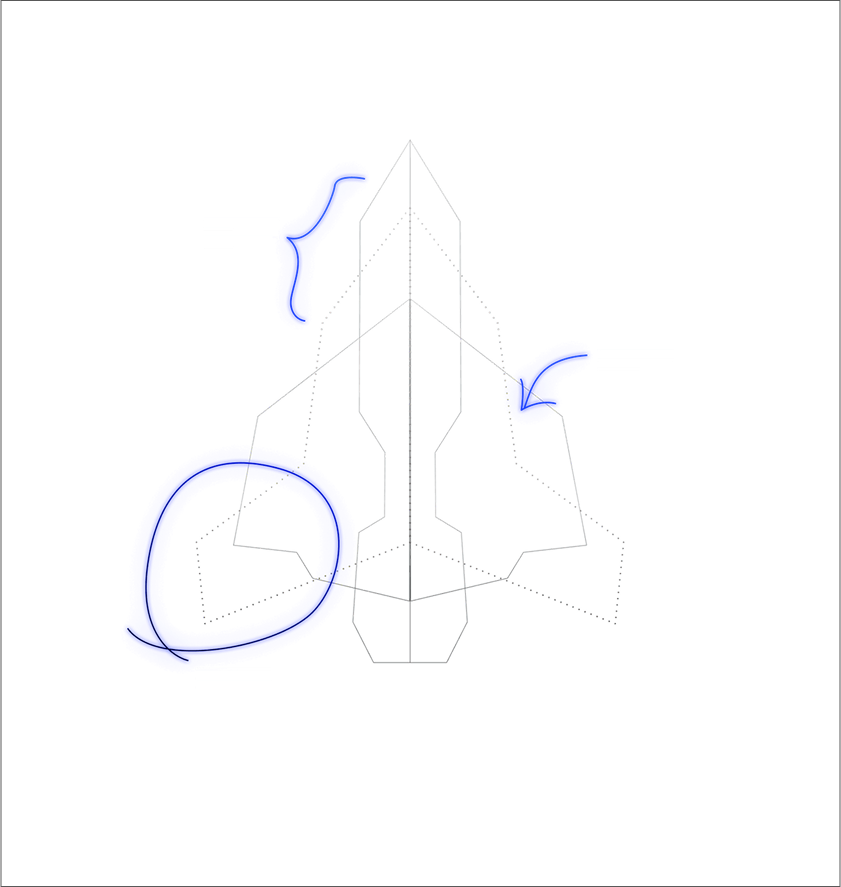
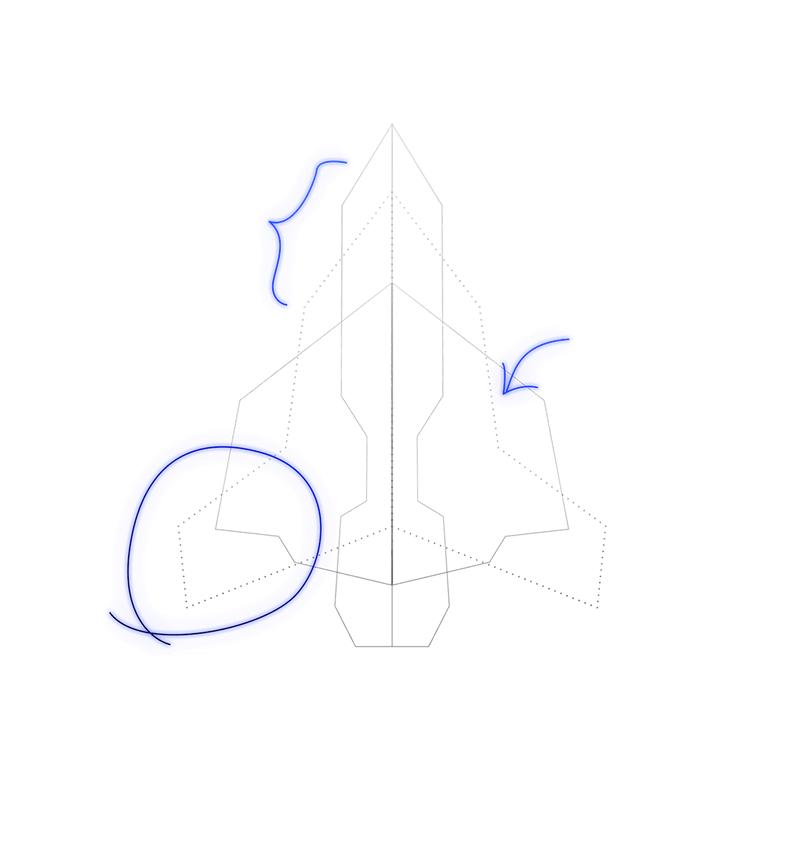
commit files

diff --git a/src/pages/UIUXDesigning.jsx b/src/pages/UIUXDesigning.jsx
@@ -1,0 +1,166 @@
+import React from "react";
+import { Helmet } from "react-helmet";
+import SectionTitle from "../components/SectionTitle";
+import ListItems from "../components/ListItems";
+import uiuximg01 from "../assets/images/subpages/uiux01.jpg";
+import uiuximg02 from "../assets/images/subpages/uiux02.png";
+import uiuximg03 from "../assets/images/subpages/uiux03.png";
+import uiuximg04 from "../assets/images/subpages/uiux04.png";
+
+const pagesubtitle = "UX/UI Designing";
+const pagetitle = "Design That Converts Visitors";
+const pagedescription =
+  "We craft intuitive interfaces that delight users and drive business results through strategic design thinking";
+
+const designprocess = [
+  "User Research & Persona Development:  We analyze real user behavior to create targeted audience profiles for precise design decisions.",
+  "Information Architecture & Wireframing: Structuring content logically and sketching blueprints for intuitive user flows and navigation.",
+  "Interactive Prototyping:  Transforming static designs into clickable prototypes to validate functionality early.",
+  "Usability Testing & Iteration:  Observing real users interact with designs to refine and eliminate friction points.",
+];
+
+const designspecialities = [
+  "Web & Mobile App UI/UX:  We craft intuitive, visually stunning interfaces for seamless user journeys across all devices—from responsive websites to native iOS/Android apps.",
+  "Design Systems & Style Guides:  Build brand consistency at scale with reusable component libraries, documented patterns, and future-proof design governance.",
+  "SaaS Product Interfaces:  Complex workflows made simple. We specialize in dashboards, admin panels, and B2B tools that users actually enjoy.",
+  "E-commerce Optimization:  Turn browsers into buyers with conversion-focused product pages, frictionless checkout flows, and mobile-first shopping experiences",
+];
+
+const whychoose = [
+  "300+ Successful Design Projects: roven track record across 12 industries—from fintech to healthcare—delivering measurable improvements in engagement and conversions.",
+  "Data-Driven Design Decisions:We blend qualitative insights (user testing) with quantitative metrics (heatmaps, analytics) to remove guesswork.",
+  "Collaborative Design Sprints: Fast, transparent iterations with Figma prototypes and weekly stakeholder reviews—no endless feedback loops..",
+  "Developer-Friendly Handoffs: Pixel-perfect specs, organized design tokens, and Slack-ready dev teams for smoother implementation.",
+];
+
+const UIUXDesigning = () => {
+  return (
+    <>
+      <main className="Subpage">
+        <Helmet>
+          <title>{pagesubtitle}</title>
+          <meta
+            name="description"
+            content="Learn more about Core Web Pro Studio, Hyderabad's leading web design and development agency. Discover our expertise in UI/UX, web development, SEO, digital marketing, and mobile apps."
+          />
+          <meta
+            name="keywords"
+            content="About Core Web Pro Studio, Web Design, Web Development, UI/UX, SEO, Digital Marketing, Mobile Apps, Hyderabad, Agency"
+          />
+          <meta name="author" content="Core Web Pro Studio" />
+          <meta name="robots" content="index, follow" />
+          <meta
+            property="og:title"
+            content="About Us | Core Web Pro Studio - Digital Excellence in Hyderabad"
+          />
+          <meta
+            property="og:description"
+            content="Discover the story and expertise behind Core Web Pro Studio, Hyderabad's award-winning web design and development agency."
+          />
+          <meta property="og:type" content="website" />
+          <meta property="og:url" content="https://corewebpro.com/about" />
+          <meta
+            property="og:image"
+            content="https://corewebpro.com/assets/images/logo.svg"
+          />
+        </Helmet>
+        <section className="subpage-header">
+          <div className="custom-container">
+            <h1>{pagesubtitle}</h1>
+            <h2>{pagetitle}</h2>
+            <p>{pagedescription}</p>
+          </div>
+        </section>
+        <section className="subpage-content">
+          <div className="custom-container">
+            <img src={uiuximg01} alt="" className="img-fluid roundedimg" />
+            <div className="row section-row">
+              <div className="col-md-12">
+                <div className="section-content">
+                  <SectionTitle title="Design With Intent: Experiences That Engage & Deliver" />
+                  <p>
+                    At CoreWebPro, we blend aesthetics with functionality to
+                    create digital experiences that users love. Our
+                    human-centered design approach focuses on solving real user
+                    problems while achieving your business objectives. From
+                    initial research to pixel-perfect prototypes, we design
+                    interfaces that reduce friction and increase engagement.
+                  </p>
+                </div>
+              </div>
+            </div>
+            <div className="row section-row">
+              <div className="col-md-12">
+                <div className="section-content">
+                  <div className="row pt-2 pt-md-4 justify-content-md-between">
+                    <div className="col-md-5 align-self-center">
+                      <SectionTitle
+                        subtitle="Where Ideas Become Digital Reality"
+                        title="Our Design Process"
+                      />
+                      <ListItems
+                        items={designprocess}
+                        className="mt-2 my-md-4"
+                      />
+                    </div>
+                    <div className="col-md-6">
+                      <img
+                        src={uiuximg02}
+                        alt="UI/UX Design Process"
+                        className="img-fluid roundedimg"
+                      />
+                    </div>
+                  </div>
+
+                  <div className="row pt-2 pt-md-4 justify-content-md-between">
+                    <div className="col-md-5 align-self-center order-md-last">
+                      <SectionTitle
+                        subtitle="Design Specialties"
+                        title="Tailored Solutions for Every Digital Need"
+                      />
+                      <ListItems
+                        items={designspecialities}
+                        className="mt-2 my-md-4"
+                      />
+                    </div>
+                    <div className="col-md-6">
+                      <img
+                        src={uiuximg03}
+                        alt="UI/UX Design Process"
+                        className="img-fluid roundedimg"
+                      />
+                    </div>
+                  </div>
+
+                   <div className="row pt-2 pt-md-4 justify-content-md-between">
+                    <div className="col-md-5 align-self-center">
+                      <SectionTitle
+                        subtitle="Why Choose Our Designs?"
+                        title="Where Expertise Meets Exceptional Results"
+                      />
+                      <ListItems
+                        items={whychoose}
+                        className="mt-2 my-md-4"
+                      />
+                    </div>
+                    <div className="col-md-6">
+                      <img
+                        src={uiuximg04}
+                        alt="UI/UX Design Process"
+                        className="img-fluid roundedimg"
+                      />
+                    </div>
+                  </div>
+
+
+                </div>
+              </div>
+            </div>
+          </div>
+        </section>
+      </main>
+    </>
+  );
+};
+
+export default UIUXDesigning;

diff --git a/src/pages/About.jsx b/src/pages/About.jsx
@@ -56,13 +56,17 @@ const meetteam = [
   "Client-First Mentality: We collaborate closely with you, ensuring your vision drives every decision.",
 ];
 
+const pagesubtitle="Welcome to Corewebpro";
+const pagetitle="Crafting Digital Excellence";
+const pagedescription="Since 2000, Corewebpro has been at the forefront of digital innovation, delivering tailored solutions in UI/UX design, web development, SEO, digital marketing, and mobile apps.";
+
 const About = () => {
   return (
     <>
       <main className="Subpage">
         <Helmet>
           <title>
-            About Core Web Pro Studio - Digital Excellence in Hyderabad
+           {pagesubtitle}
           </title>
           <meta
             name="description"
@@ -91,13 +95,9 @@ const About = () => {
         </Helmet>
         <section className="subpage-header">
           <div className="custom-container">
-            <h1>Welcome to Corewebpro</h1>
-            <h2>Crafting Digital Excellence</h2>
-            <p>
-              Since 2000, Corewebpro has been at the forefront of digital
-              innovation, delivering tailored solutions in UI/UX design, web
-              development, SEO, digital marketing, and mobile apps.
-            </p>
+            <h1>{pagesubtitle}</h1>
+            <h2>{pagetitle}</h2>
+            <p>{pagedescription}</p>
           </div>
         </section>
         <section className="subpage-content">

diff --git a/src/App.jsx b/src/App.jsx
@@ -5,6 +5,8 @@ import Header from "./components/Header";
 import Footer from "./components/Footer";
 import Home from "./pages/Home";
 import About from "./pages/About";
+import ErrorPage from "./pages/ErrorPage";
+import UIUXDesigning from "./pages/UIUXDesigning";
 import loadingImg from "./assets/images/Loadinganimation.gif";
 
 function App() {
@@ -45,7 +47,10 @@ function App() {
           <Routes>
             <Route path="/" element={<Home />} />
             <Route path="/about" element={<About />} />
+            <Route path="/uiuxdesigning" element={<UIUXDesigning />} />
             {/* Add more routes as needed */}
+            <Route path="*" element={<ErrorPage />} />
+         
           </Routes>
           <Footer />
         </Router>

diff --git a/src/components/Header.jsx b/src/components/Header.jsx
@@ -102,7 +102,7 @@ const Header = () => {
                     </Link>
                     <ul className="dropdown-menu">
                       <li>
-                        <Link className="dropdown-item" to="/">
+                        <Link className="dropdown-item" to="/UIUXDesigning">
                           UI/UX Design
                         </Link>
                       </li>

diff --git a/src/pages/ErrorPage.jsx b/src/pages/ErrorPage.jsx
@@ -1,0 +1,17 @@
+import React from 'react'
+
+const ErrorPage = () => {
+  return (
+    <main className="Subpage">
+         <section className="subpage-header">
+          <div className="container">
+             <h1>404 Error </h1>          
+          
+          </div>
+        </section>
+      
+    </main>
+  )
+}
+
+export default ErrorPage

diff --git a/src/assets/styles/App.scss b/src/assets/styles/App.scss
@@ -321,7 +321,7 @@ body {
 
     .section-content{
       padding:4rem 3rem;
-      border:1px solid map.get(v.$colors, "black-90");
+      border:1px solid map.get(v.$colors, "border-color");
       border-radius:1rem;
       height: 100%;
 

diff --git a/src/assets/styles/_variables.scss b/src/assets/styles/_variables.scss
@@ -12,6 +12,7 @@ $colors: (
   "white": #ffffff,
   "black": #000000,
   "black-90": #c0c0c0,
+  "border-color":#595959,
 );
 
 //loop colours
